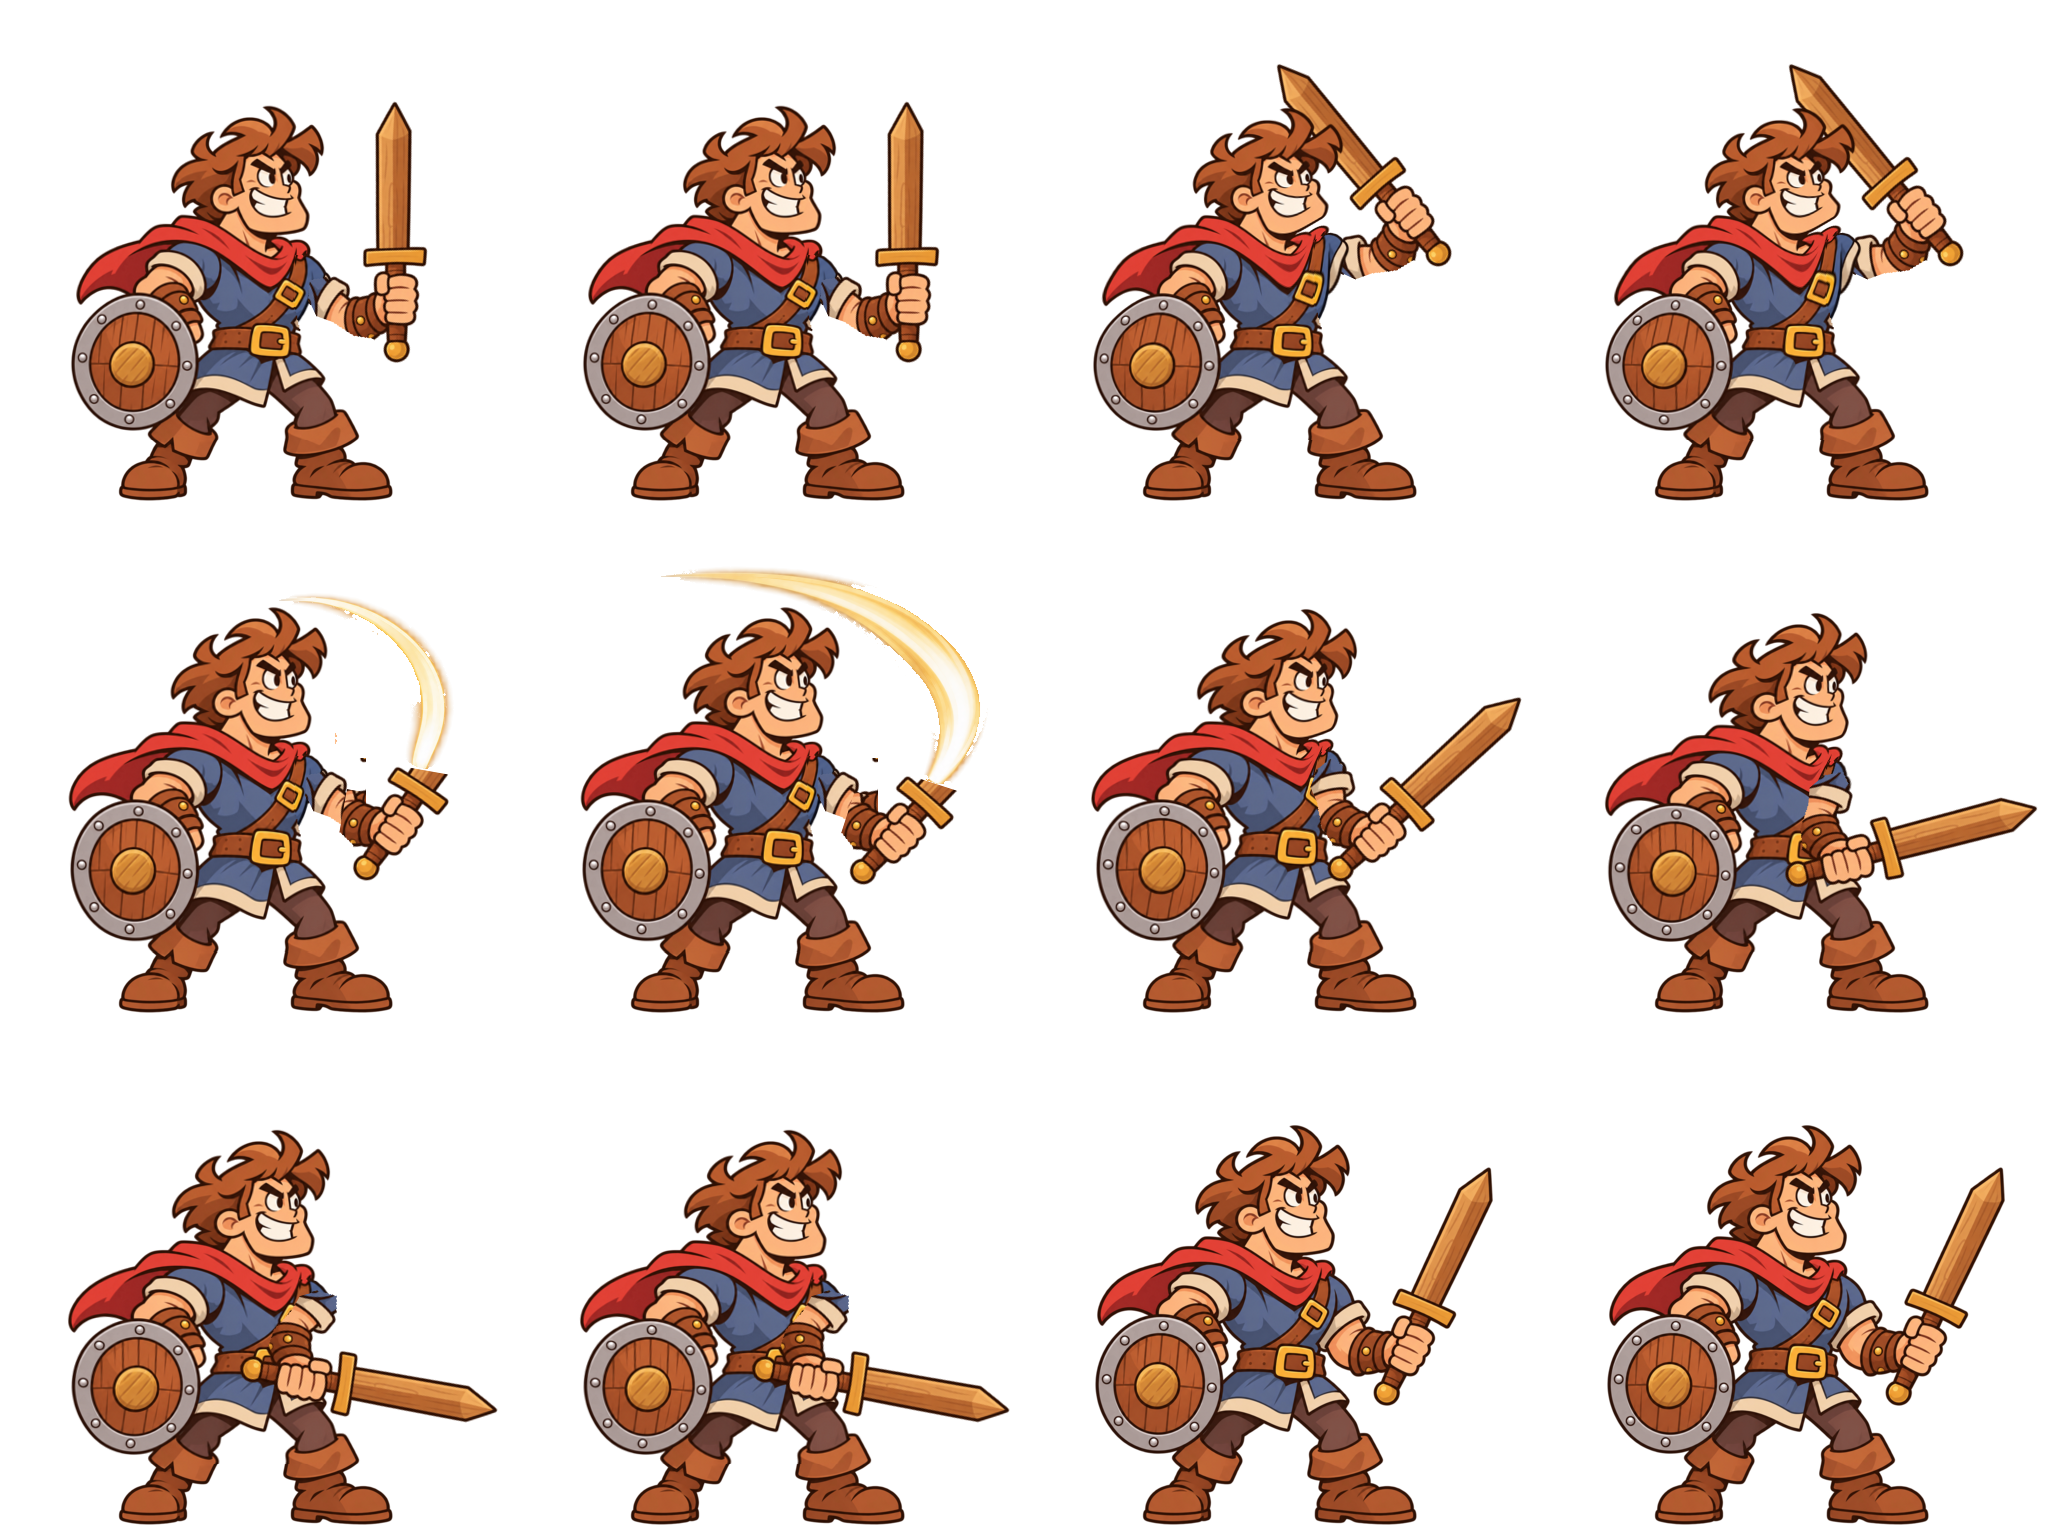
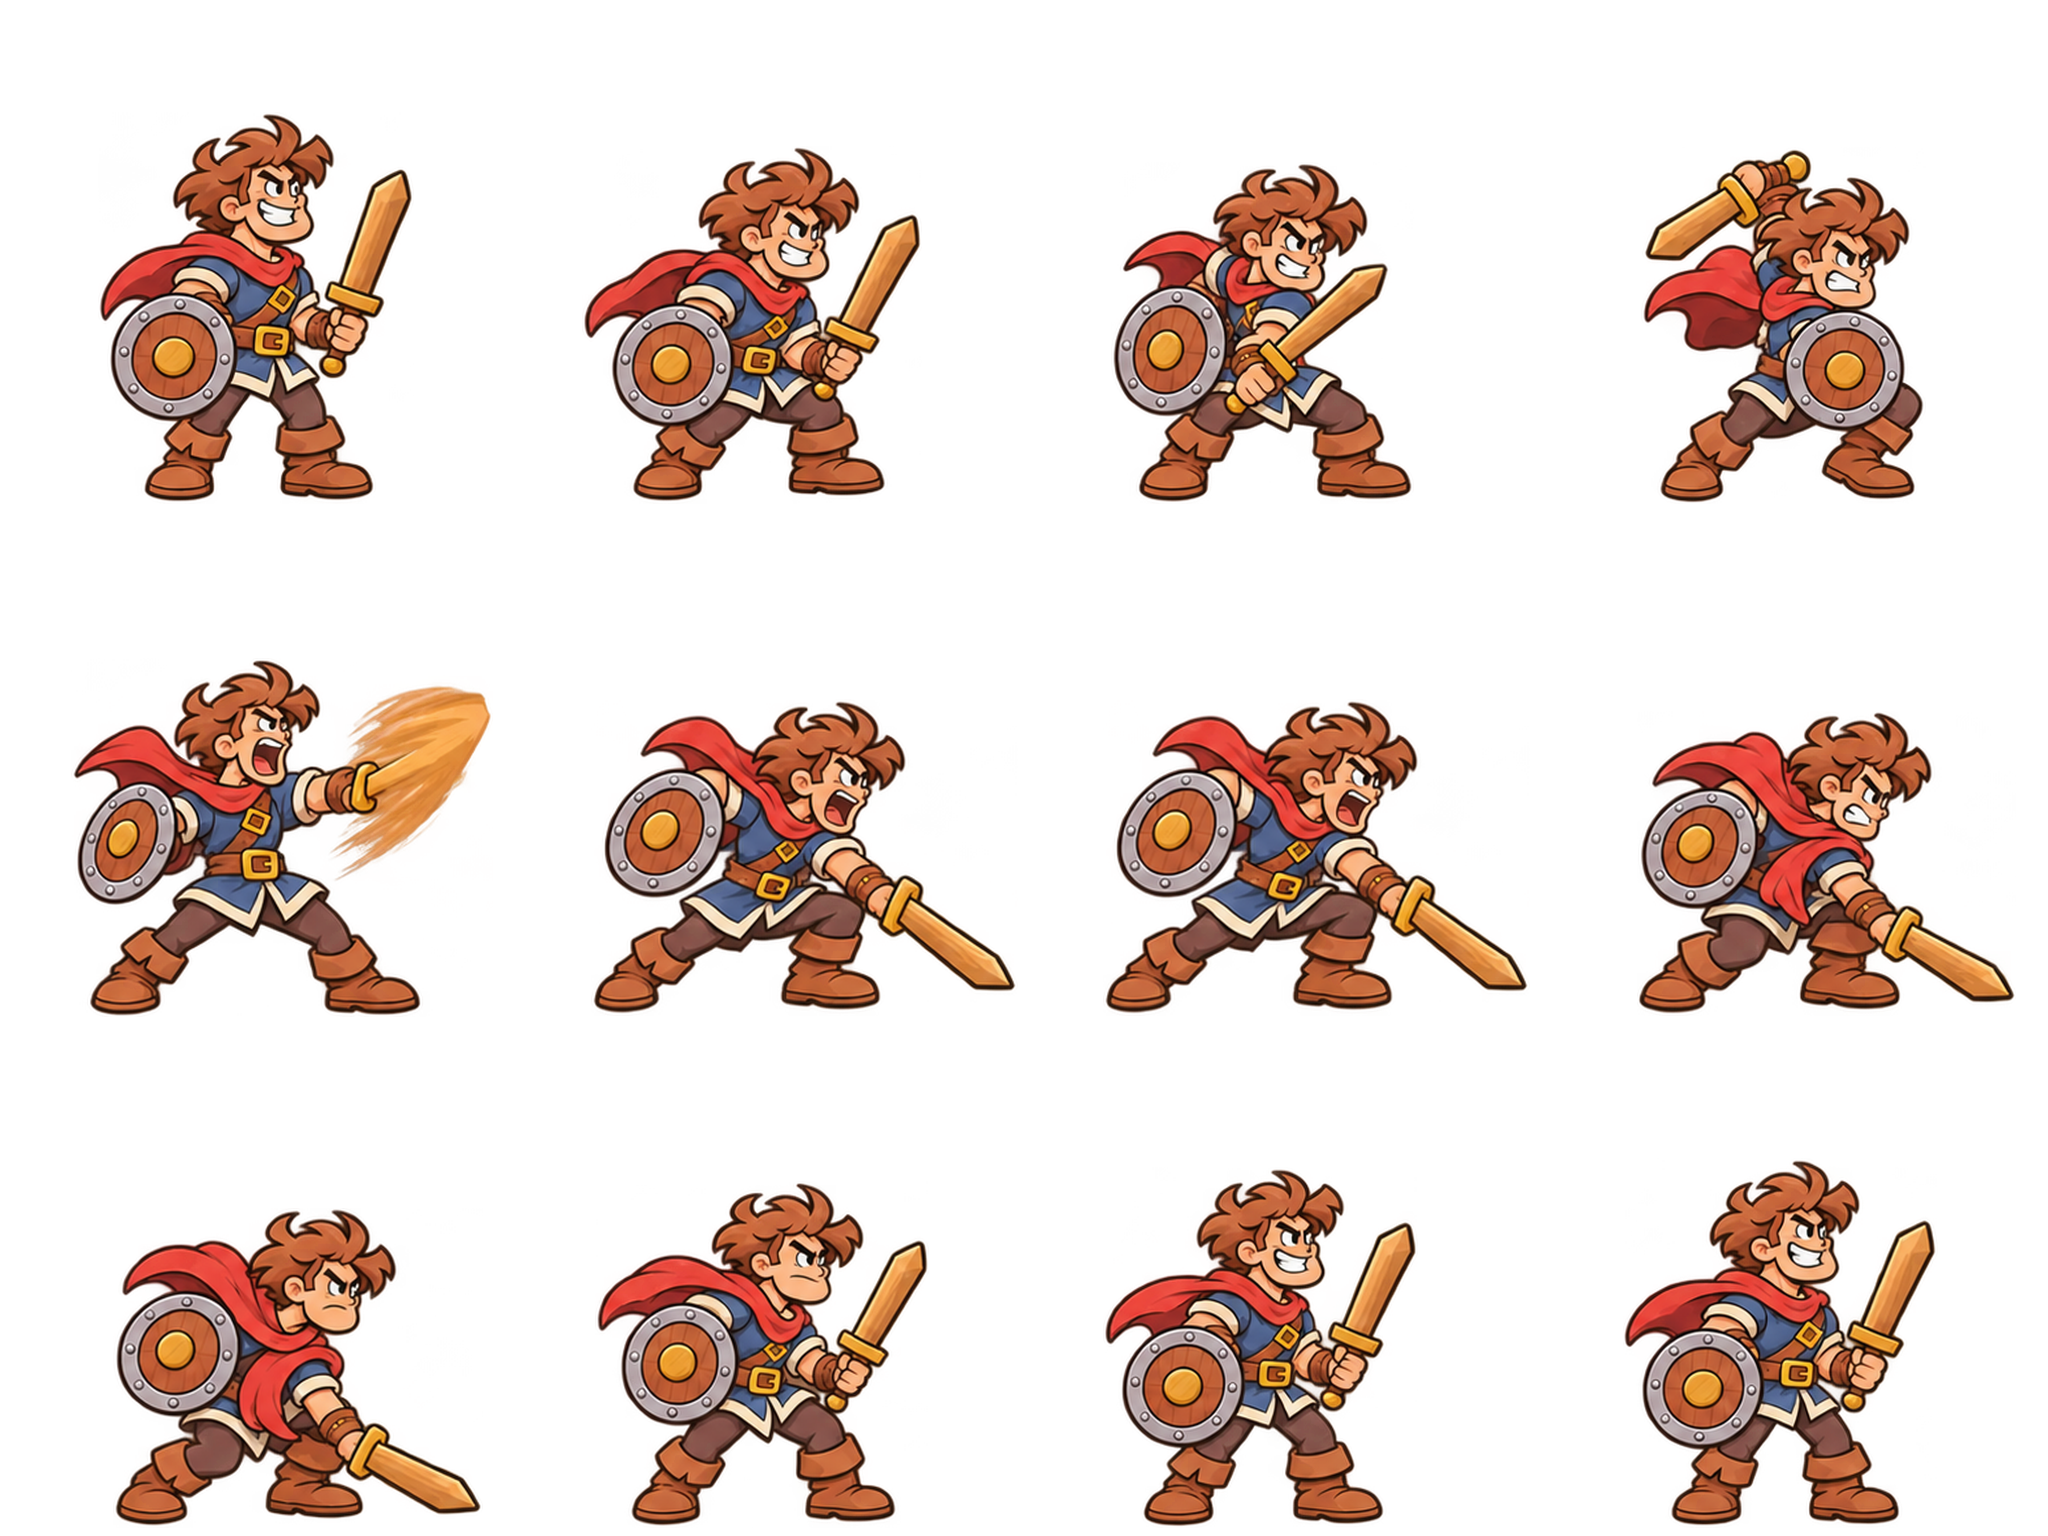
art: redraw hero pilot cels with model sheet and animation reviews

diff --git a/docs/ideas/hero_hand_drawn_review/README.md b/docs/ideas/hero_hand_drawn_review/README.md
@@ -1,0 +1,43 @@
+# Hiệp sĩ — đợt 1 / Issue #52
+
+Theo [kế hoạch](../../hero_sprite_plan.md), nhánh `art/hero-hand-drawn`.
+Mốc so sánh: `d13e819b0e159398f3edaf5119656ebe236d22aa` (sau PR #51).
+
+## Bàn giao
+
+- [Bảng mẫu](../../../assets/characters/hero_rookie/hero_model_sheet.png): toàn thân, cười tự tin / gầm khi chém / đau, tay nắm / mở, kiếm gỗ / khiên gỗ và màu có mã hex.
+- `assets/characters/hero_rookie/anim/fresh_idle.png`: 8 cel, 12 fps, lặp; chớp mắt ở khung 5.
+- `assets/characters/hero_rookie/anim/fresh_run.png`: 8 cel, 16 fps, lặp; chạm / dồn xuống / bước qua / bật, hai nửa vòng. Khung 3 và 7 có chân rời đất.
+- `assets/characters/hero_rookie/anim/fresh_attack.png`: 12 cel, 24 fps, `impact=6`; 0 thủ, 1–3 lấy đà, 4 nhòe kiếm, 5–6 giữ cùng một cel chạm, 7–9 theo đà, 10–11 hồi.
+
+Atlas RGBA, cel 512×512, 4 cột. `idle` và `run`: 2048×1024; `attack`: 2048×1536. Gốc đăng ký (256, 500); riêng chân trên không của `run` nằm cao hơn đường đất. Dáng đứng cao khoảng 392 px; gót đứng ở y=499–500. Đầu được đối chiếu bằng mắt với bảng mẫu, không coi phép đo bbox toàn thân là phép đo đầu.
+
+Giữ tóc nâu, khăn đỏ, áo xanh viền kem, đai / giáp tay da, khiên gỗ viền sắt, kiếm **gỗ** và ủng nâu của mẫu cũ. Không đổi sang hiệp sĩ mặc giáp sắt.
+
+## Xem nhịp và dáng
+
+| Clip | GIF cũ / mới | Onion skin | Hình bóng, mỗi cel 200 px |
+|---|---|---|---|
+| idle | [So sánh](idle_comparison.gif) | [0, 2, 5, 6](idle_onion.png) | [8 khung](idle_silhouettes_200.png) |
+| run | [So sánh](run_comparison.gif) | [0, 1, 2, 3](run_onion.png) | [8 khung](run_silhouettes_200.png) |
+| attack | [So sánh](attack_comparison.gif) | [0, 3, 4, 5, 8, 11](attack_onion.png) | [12 khung](attack_silhouettes_200.png) |
+
+GIF đặt cũ bên trái, mới bên phải, cùng tỷ lệ hiển thị. Trước đây **chưa có run**: ô trái của GIF run là dáng idle gốc và có ghi nhãn, không dựng một clip chạy cũ giả. Cột cũ lấy từ Git ở mốc trên. GIF dùng bước thời gian 1/100 giây theo chuẩn GIF: idle 670 ms/vòng (lý tưởng 666,7 ms), run 500 ms/vòng, attack 500 ms/vòng. Không làm chậm để che nhịp. Mọi ảnh xem thử và bảng mẫu đều dưới 2 MB.
+
+## Cách làm và phạm vi
+
+Các cel toàn thân được vẽ lại bằng công cụ tạo ảnh theo ảnh gốc và bảng mẫu, theo phong cách hoạt hình vẽ tay; đây không phải tranh do họa sĩ người vẽ thủ công. Mỗi dáng có nét mặt, thân, chân và khăn riêng. Không dùng bộ dựng khớp Python cũ; không lấy tay, chân, đầu hay kiếm từ khung đứng rồi xoay / ghép lại.
+
+Khâu đóng gói chỉ tách **nguyên cel**, cắt khoảng trống ngoài cel kèm lề nét, đăng ký / thu phóng đồng đều **cả cel**, đóng atlas và xuất ảnh xem thử từ alpha. Không biến dạng hoặc xoay riêng bộ phận cơ thể. Ngoại lệ hold đúng kế hoạch: khung attack 6 là bản sao nguyên vẹn của khung 5. Idle có 8 cel khác nhau; run có 8; attack có 11 cel khác nhau và một hold.
+
+`anim.json` giữ nguyên toàn bộ thông số clip cũ, chỉ thêm `run`. Chưa thêm `hop_back` vì thuộc đợt 2 và chưa có tranh; không khai báo clip trống. Không sửa rig, code, scene hay test. Hai mức trầy xước và các clip khác giữ nguyên. Code hiện tại chưa tự chọn `run` khi dash; việc nối vào `dash_to` thuộc phần code ở mục 6 của kế hoạch.
+
+## Kiểm tra
+
+- Kiểm tra kích thước, alpha, số cel, không có pixel alpha chạm mép cel, số cel khác nhau và hold 5–6.
+- Kiểm tra metadata cũ không đổi; `attack.impact=6`.
+- Kiểm tra số khung / thời lượng GIF, mọi preview <2.000.000 byte.
+- Import bằng Godot 4.7.2; `fresh_run.png.import` dùng VRAM compression như các atlas hiện có.
+- Bộ test hiện có: **121 passed, 0 failed**, không có `SCRIPT ERROR` hay `ERROR` trong log import / test: `godot --headless --path . -s res://tests/run_tests.gd`.
+
+[Số liệu đóng gói](validation.json) ghi bbox phần nét đặc (alpha >220), số cel khác nhau và thời lượng GIF. Kiểm tra mép cel dùng toàn bộ alpha, không chỉ ngưỡng này. Các kiểm tra kỹ thuật không thay cho duyệt cảm giác động tác: dùng GIF / onion / hình bóng ở trên để người chơi duyệt nét và nhịp trước đợt 2.
